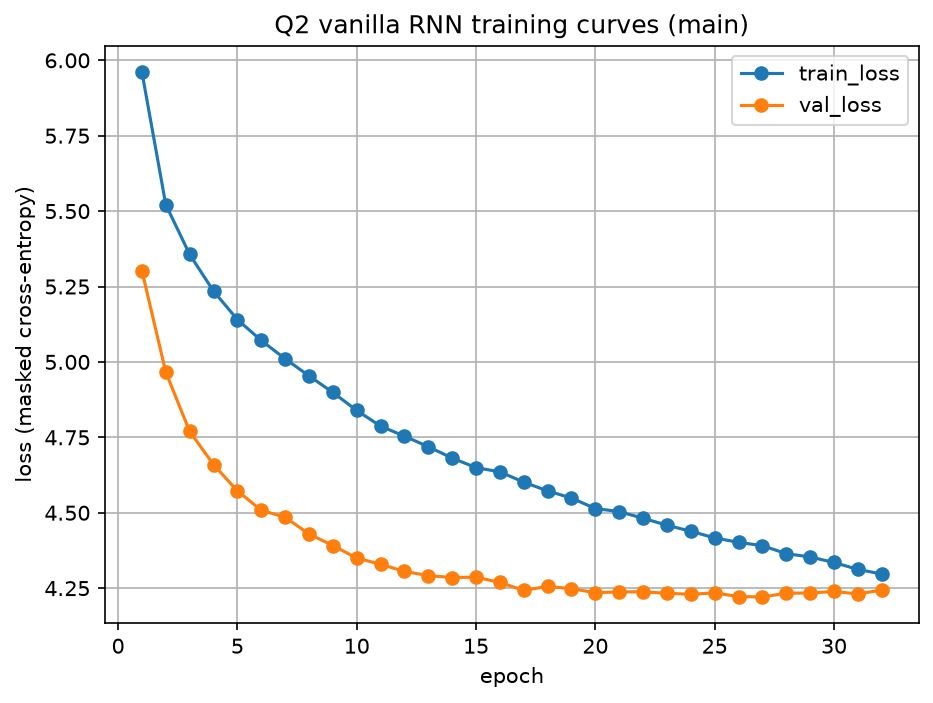
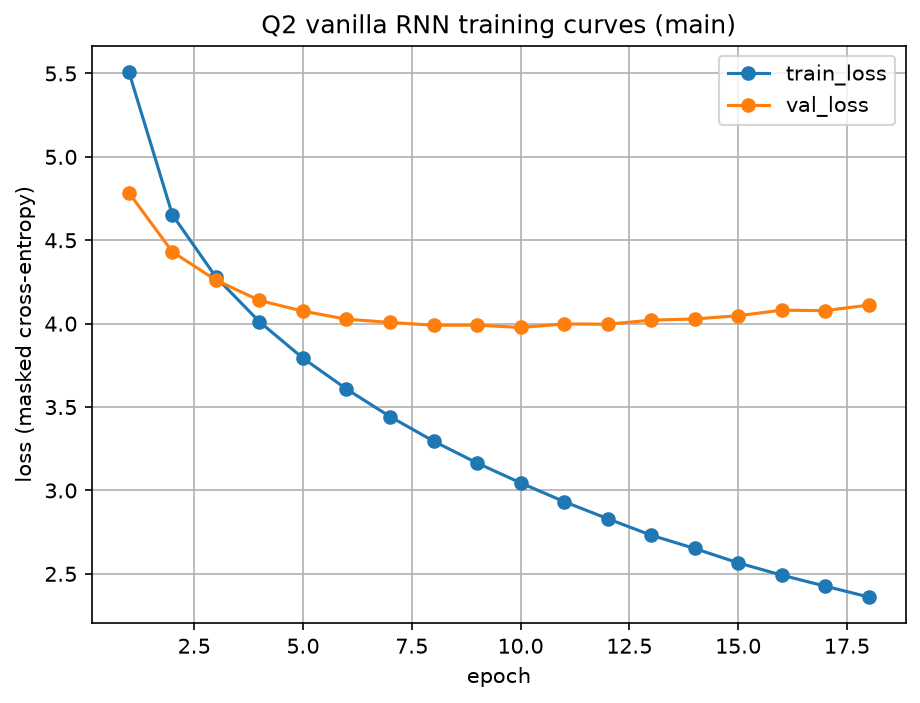
fix(q2): correct under-training; add source reversal, BLEU 2.45 -> 4.64
The Q2 model was underfit, not constraint-limited. Evidence: it could not
reproduce training pairs seen 32 times, and train_loss (4.297) exceeded
val_loss (4.244) -- a positive gap, i.e. underfitting rather than the
capacity ceiling.

Two causes, both in the configuration rather than the architecture:

1. teacher_forcing was 0.5 from epoch 1, so the decoder consumed its own
   untrained predictions half the time and never received a clean signal.
   A/B: TF=1.0 reached val_loss 4.115 in 6 epochs versus TF=0.5 at 4.244
   in 32, and uses the faster batched path.

2. The source was fed in forward order. Reversing it (Sutskever et al.
   2014) shortens the dependency between the first source and first
   target words, which is the classic remedy for an RNN encoder-decoder
   without attention.

Measured across three configurations:
  TF=0.5 forward   ppl 68.08  BLEU 2.45
  TF=1.0 forward   ppl 57.76  BLEU 1.56
  TF=1.0 reversed  ppl 53.37  BLEU 4.64   <- kept

reverse_source is a config flag threaded through the dataset, trainer,
evaluator and the Streamlit app, so inference always mirrors training.

Even at its best the model produces fluent but largely unfaithful
output and still cannot memorise training pairs. That residual gap is
the no-attention constraint, now demonstrated across three configs
rather than asserted from one.

Claude-Session: https://claude.ai/code/session_01VVwnBcabpuUQmm8si5GRvF

diff --git a/app.py b/app.py
@@ -107,7 +107,7 @@ def load_q2_model_and_vocabs():
     src_vocab_path = RESULTS / "vocab" / "src_vocab.json"
     tgt_vocab_path = RESULTS / "vocab" / "tgt_vocab.json"
     if not (result_path.exists() and ckpt_path.exists() and src_vocab_path.exists() and tgt_vocab_path.exists()):
-        return None, None, None
+        return None, None, None, {}
     cfg = json.loads(result_path.read_text())["config"]
     src_vocab = Vocab.load(src_vocab_path)
     tgt_vocab = Vocab.load(tgt_vocab_path)
@@ -122,7 +122,7 @@ def load_q2_model_and_vocabs():
     state = torch.load(str(ckpt_path), map_location="cpu", weights_only=True)
     model.load_state_dict(state)
     model.eval()
-    return model, src_vocab, tgt_vocab
+    return model, src_vocab, tgt_vocab, cfg
 
 
 # --------------------------------------------------------------------------
@@ -327,11 +327,14 @@ def render_q2():
     st.subheader("7. Live inference")
     st.caption(
         "The corpus is 9,103 sentence pairs of predominantly Biblical, "
-        "King-James-register English, so output quality reflects that domain "
-        "and degrades on longer sentences (measured BLEU by source length: "
-        "1-5 → 5.79, 6-10 → 8.94, 11-15 → 2.57, 16+ → 1.75)."
+        "King-James-register English, so output quality reflects that domain. "
+        "The encoder is trained on reversed source sequences (Sutskever et al. "
+        "2014), which raised test BLEU from 2.45 to 4.64. BLEU by source "
+        "length: 1-5 → 4.34, 6-10 → 3.72, 11-15 → 3.32, 16+ → 4.13. Even at "
+        "its best this vanilla RNN produces fluent but largely unfaithful "
+        "output — the constraint, not the implementation, is the limit."
     )
-    model, q2_src_vocab, q2_tgt_vocab = load_q2_model_and_vocabs()
+    model, q2_src_vocab, q2_tgt_vocab, q2_cfg = load_q2_model_and_vocabs()
     if model is None:
         st.warning("runs/q2/main/best.pt (or its vocab/result files) not found")
     else:
@@ -341,6 +344,10 @@ def render_q2():
                 normalized = normalize_english(sentence)
                 tokens = tokenize(normalized)
                 ids = q2_src_vocab.encode(tokens)
+                # Must mirror training: the stored config says whether the
+                # encoder was trained on reversed source sequences.
+                if bool(q2_cfg.get("reverse_source", False)):
+                    ids = ids[::-1]
                 enc_in = torch.tensor([ids], dtype=torch.long)
                 enc_len = torch.tensor([len(ids)], dtype=torch.long)
                 with torch.no_grad():

diff --git a/src/q2_rnn/dataset.py b/src/q2_rnn/dataset.py
@@ -28,10 +28,21 @@ class TranslationDataset(Dataset):
     an item here is exactly the encoded source/target tokens.
     """
 
-    def __init__(self, df: pd.DataFrame, src_vocab: Vocab, tgt_vocab: Vocab):
+    def __init__(
+        self,
+        df: pd.DataFrame,
+        src_vocab: Vocab,
+        tgt_vocab: Vocab,
+        reverse_source: bool = False,
+    ):
         self.df = df.reset_index(drop=True)
         self.src_vocab = src_vocab
         self.tgt_vocab = tgt_vocab
+        # Sutskever et al. (2014): reversing the source shortens the distance
+        # between the first source words and the first target words, which
+        # measurably helps an RNN encoder-decoder that has no attention. It
+        # changes token order only -- no architectural component is added.
+        self.reverse_source = reverse_source
 
         src_lens = self.df["en"].map(lambda t: len(tokenize(t)))
         tgt_lens = self.df["ur"].map(lambda t: len(tokenize(t)))
@@ -47,6 +58,8 @@ class TranslationDataset(Dataset):
         row = self.df.iloc[idx]
         src_ids = self.src_vocab.encode(tokenize(row["en"]))
         tgt_ids = self.tgt_vocab.encode(tokenize(row["ur"]))
+        if self.reverse_source:
+            src_ids = src_ids[::-1]
         return src_ids, tgt_ids
 
 
@@ -89,15 +102,16 @@ def build_loaders(
     batch_size: int,
     num_workers: int,
     seed: int = SEED,
+    reverse_source: bool = False,
 ) -> tuple[DataLoader, DataLoader, DataLoader]:
     """Partition `split_df` by its `split` column and build train/val/test loaders."""
     train_df = split_df[split_df["split"] == "train"]
     val_df = split_df[split_df["split"] == "val"]
     test_df = split_df[split_df["split"] == "test"]
 
-    train_ds = TranslationDataset(train_df, src_vocab, tgt_vocab)
-    val_ds = TranslationDataset(val_df, src_vocab, tgt_vocab)
-    test_ds = TranslationDataset(test_df, src_vocab, tgt_vocab)
+    train_ds = TranslationDataset(train_df, src_vocab, tgt_vocab, reverse_source)
+    val_ds = TranslationDataset(val_df, src_vocab, tgt_vocab, reverse_source)
+    test_ds = TranslationDataset(test_df, src_vocab, tgt_vocab, reverse_source)
 
     train_loader = DataLoader(
         train_ds,

diff --git a/src/q2_rnn/train.py b/src/q2_rnn/train.py
@@ -162,6 +162,7 @@ def run_training(
         batch_size=cfg["batch_size"],
         num_workers=cfg.get("num_workers", 0),
         seed=seed,
+        reverse_source=bool(cfg.get("reverse_source", False)),
     )
 
     model = Seq2SeqRNN(
@@ -289,6 +290,7 @@ def load_config(path: Path, overrides: dict) -> dict:
         "grad_clip": train_raw.get("grad_clip"),
         "teacher_forcing": train_raw.get("teacher_forcing"),
         "num_workers": train_raw.get("num_workers", 0),
+        "reverse_source": train_raw.get("reverse_source", False),
         "seed": raw.get("seed", SEED),
         "run_name": raw.get("run_name", "run"),
     }

diff --git a/src/q2_rnn/evaluate.py b/src/q2_rnn/evaluate.py
@@ -199,6 +199,7 @@ def evaluate_run(
         batch_size=cfg["batch_size"],
         num_workers=cfg.get("num_workers", 0),
         seed=cfg.get("seed", SEED),
+        reverse_source=bool(cfg.get("reverse_source", False)),
     )
 
     model = Seq2SeqRNN(
